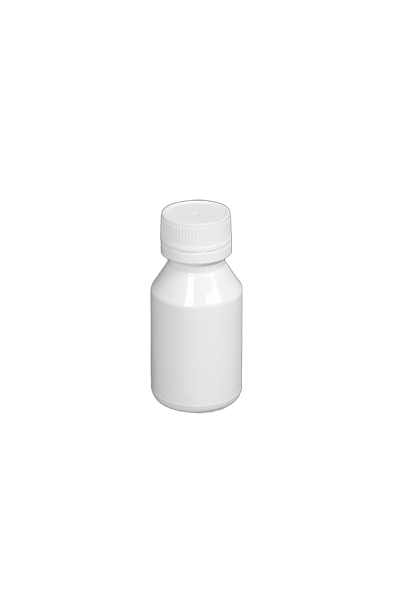
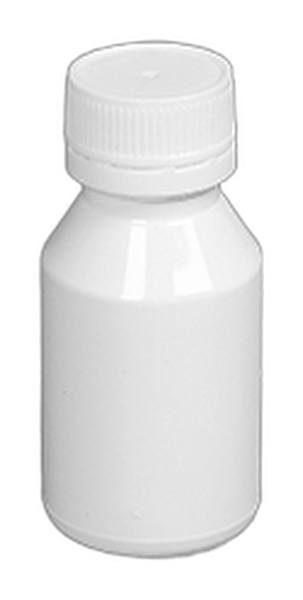
fix(catalog): crop and upscale Botol Pupuk images to match other categories layout

diff --git a/src/components/ProductCard.tsx b/src/components/ProductCard.tsx
@@ -31,6 +31,7 @@ export default function ProductCard({
   badges,
 }: ProductCardProps) {
   const [isExpanded, setIsExpanded] = useState<boolean>(false);
+  const isPng = imagePath.toLowerCase().endsWith(".png");
 
   const getWhatsAppLink = (productTitle: string) => {
     const rawNumber = footerData.contact.whatsapp.replace(/[^0-9]/g, "");
@@ -87,7 +88,9 @@ export default function ProductCard({
                 alt={title}
                 fill
                 sizes="(max-width: 1024px) 100vw, 55vw"
-                className="object-contain mix-blend-multiply dark:mix-blend-normal drop-shadow-2xl hover:scale-105 transition-transform duration-500 select-none p-2"
+                className={`object-contain ${
+                  isPng ? "" : "mix-blend-multiply dark:mix-blend-normal"
+                } drop-shadow-2xl hover:scale-105 transition-transform duration-500 select-none p-2`}
               />
             </div>
           </div>
